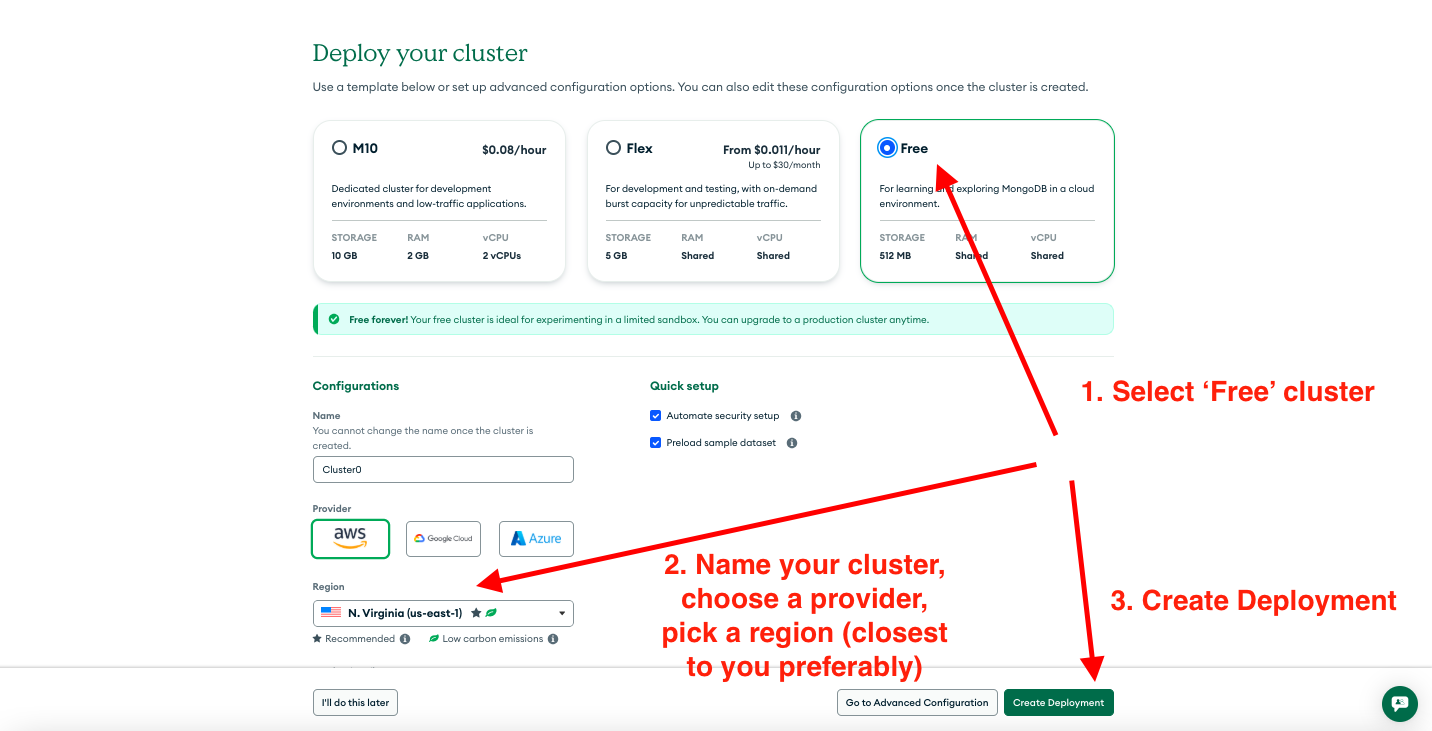
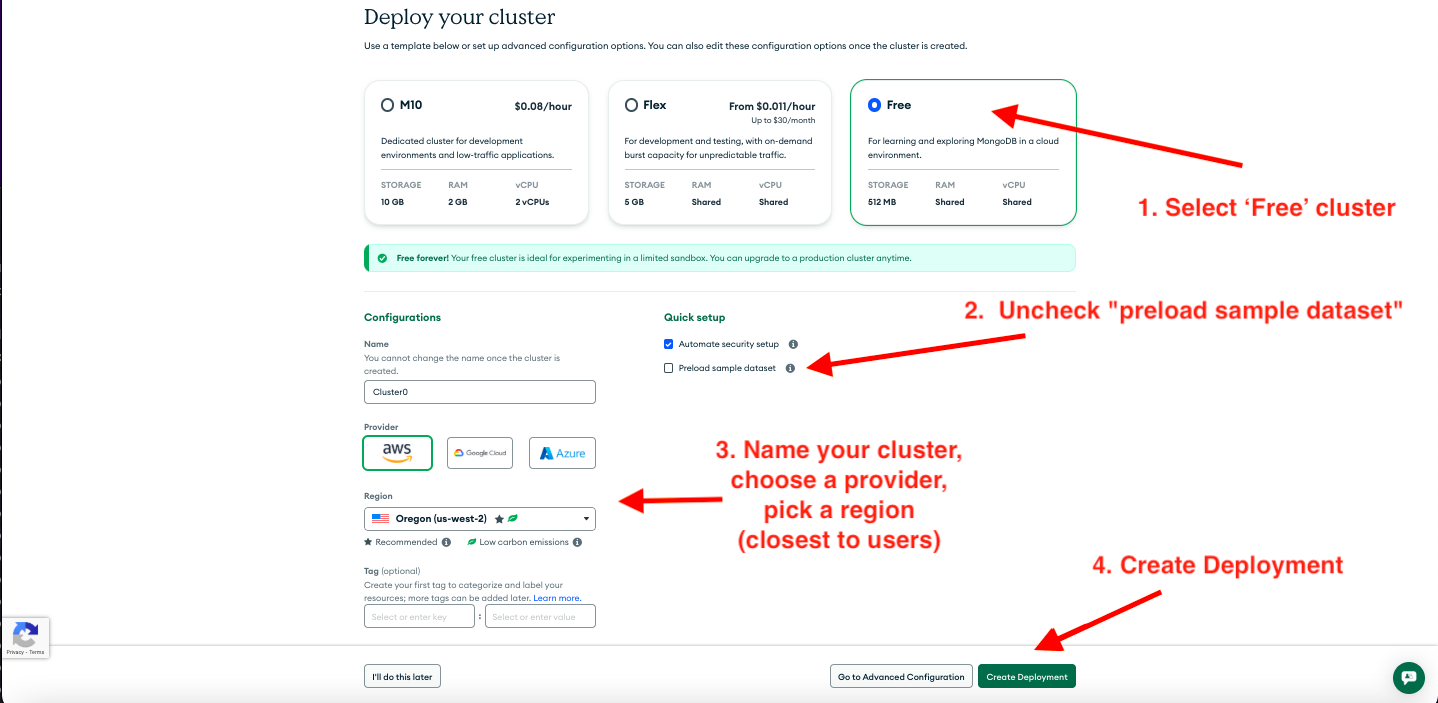
update mongodb section in setup guide

diff --git a/docs/SETUP-GUIDE.md b/docs/SETUP-GUIDE.md
@@ -18,8 +18,8 @@ Complete step-by-step guide to deploy your own DevLeads instance.
 8. [Installation & Development](#installation--development)
 9. [Customization Guide](#customization-guide)
 10. [Create Your GitHub Repository](#create-your-github-repository)
-11. [Web Forms Integration (Optional)](#web-forms-integration-optional-but-highly-recommended)
-12. [Production Deployment](#production-deployment)
+11. [Production Deployment](#production-deployment)
+12. [Web Forms Integration (Optional)](#web-forms-integration-optional-but-highly-recommended)
 13. [Configuration Checklist](#configuration-checklist)
 14. [Troubleshooting](#troubleshooting)
 
@@ -44,7 +44,7 @@ Complete step-by-step guide to deploy your own DevLeads instance.
 
 Before you begin, ensure you have:
 
-- **Node.js** (v16 or higher) - [Download here](https://nodejs.org/)
+- **Node.js** - [Download here](https://nodejs.org/)
 - **npm** or **yarn** package manager
 - **Git** for version control
 - **Text editor** (VS Code recommended)
@@ -75,7 +75,7 @@ Before you begin, ensure you have:
 
 ![MFA Setup](../dashboard/assets/devleads_setup_images/mongodb/MongoDB_Atlas_mfa_setup.png)
 
-4. **Complete the welcome questionnaire**:
+4. **Complete the welcome questionnaire or skip**:
    - **Primary goal**: Select "Build a project I have in mind"
    - **MongoDB experience**: Select your experience level
    - **Programming language**: Choose "JavaScript / Node.js"
@@ -89,6 +89,7 @@ Before you begin, ensure you have:
 
 6. **Deploy your cluster** - Choose the **Free** tier:
    - Select **"Free"** cluster option
+   - **Sample data set**: uncheck "preload sample dataset"
    - **Provider**: Choose your preferred cloud provider
    - **Region**: Choose the region closest to your users
    - **Cluster Name**: Use the default name or choose your own
@@ -100,10 +101,10 @@ Before you begin, ensure you have:
 
 ![Security quickstart](../dashboard/assets/devleads_setup_images/mongodb/MongoDB_Atlas_security_quickstart.png)
 
-   - **Username**: Choose a username
-   - **Password**: Use the auto-generated password or create your own
-   - **⚠ Important**: Copy and save this password - you'll need it for your connection string
-   - Click **"Create Database User"**
+- **Username**: Choose a username
+- **Password**: Use the auto-generated password or create your own
+- **⚠ Important**: Copy and save this password - you'll need it for your connection string
+- Click **"Create Database User"**
 
 8. **Your cluster will be created** (this takes 1-3 minutes)
 
@@ -119,7 +120,7 @@ Before you begin, ensure you have:
 
 3. **Copy the connection string**:
    - **Driver**: Node.js
-   - **Version**: 4.1 or later (should be selected by default)
+   - **Version**: 6.7 or later (should be selected by default)
 
 ![Connection String](../dashboard/assets/devleads_setup_images/mongodb/MongoDB_Atlas_connection_string.png)
 
@@ -137,11 +138,10 @@ Before you begin, ensure you have:
 
 ![Add IP address](../dashboard/assets/devleads_setup_images/mongodb/MongoDB_add_an_IP_address.png)
 
-   - For development: Add `0.0.0.0/0` (allows access from anywhere)
-   - For production: Add your server's specific IP addresses
+- For development: Add `0.0.0.0/0` (allows access from anywhere)
+- For production: Add your server's specific IP addresses
 
-   ![Set IP](../dashboard/assets/devleads_setup_images/mongodb/MongoDB_add_IP_access.png)
-3. **Confirm**
+![Set IP](../dashboard/assets/devleads_setup_images/mongodb/MongoDB_add_IP_access.png) 3. **Confirm**
 
 4. **You can now sign out of MongoDB Atlas**
 
@@ -173,20 +173,24 @@ Before you begin, ensure you have:
 
 ### Step 2: Get Web App Configuration
 
-1. **Project Settings** (Get Started By Adding Firebase to Your App) → **Web '</>'** 
+1. **Project Settings** (Get Started By Adding Firebase to Your App) → **Web '</>'**
 
 ![Get started by adding firebase to your app](../dashboard/assets/devleads_setup_images/firebase/firebase_choose_web.png)
 
 2. **Register app**:
+
    - Pick an App nickname: e.g. "DevLeads Web"
-   - Don't check hosting checkbox 
+   - Don't check hosting checkbox
 
    ![Register app](../dashboard/assets/devleads_setup_images/firebase/firebase_register_app.png)
-   
+
 3. **Copy the config object**
-   - Copy the Firebase configuration public facing keys locally 
+
+   - Copy the Firebase configuration public facing keys locally
      (you'll need this later for `dashboard/js/authApi.js`):
+
    ```javascript
+   // Your web app's Firebase configuration
    const firebaseConfig = {
      apiKey: "your-api-key",
      authDomain: "your-project.firebaseapp.com",
@@ -194,7 +198,6 @@ Before you begin, ensure you have:
      storageBucket: "your-project.appspot.com",
      messagingSenderId: "123456789",
      appId: "your-app-id",
-     measurementId: "your-measurement-id",
    };
    ```
 
@@ -241,9 +244,11 @@ Before you begin, ensure you have:
 ![Generate Key Dialog](../dashboard/assets/devleads_setup_images/firebase/firebase_generate_key3_new.png)
 
 3. **Download the JSON file** (keep it secure!)
+
    - These will go in .env later
 
 4. **Extract these values** from the JSON file:
+
    - `project_id`
    - `private_key_id`
    - `private_key`
@@ -256,11 +261,12 @@ Before you begin, ensure you have:
    - `universe_domain`
 
 5. **You can now sign out of the Firebase Console**
+
 ---
 
 ## Email Setup (Optional but highly recommended)
 
-Email notifications are optional but highly recommended for lead management. It is set up to work seamlessly with the [web form](#web-forms-integration-optional-but-highly-recommended) web components provided later on in this document. Both you and the person submitting the form are sent email confirmations.
+Email notifications are optional but highly recommended for lead management. It is set up to work seamlessly with the customizable [web form](#web-forms-integration-optional-but-highly-recommended) web components provided later on in this document. Both you and the person submitting the form are sent email confirmations.
 
 ### Understanding Email Password (EMAIL_PASS)
 
@@ -304,7 +310,7 @@ The `EMAIL_PASS` field is where you put your email account's authentication cred
   3. Generate an app-specific password
   4. Save password for .env
 
-### Email Provider Settings 
+### Email Provider Settings
 
 **Gmail (for .env):**
 
@@ -471,7 +477,6 @@ const firebaseConfig = {
   storageBucket: "your-project.appspot.com",
   messagingSenderId: "123456789",
   appId: "your-app-id",
-  measurementId: "your-measurement-id",
 };
 ```
 
@@ -507,7 +512,7 @@ This adds default form templates without affecting any existing data.
 - `npm run seed:reset` - Adds missing default templates (safe, preserves existing forms)
 - `npm run seed:force` - Replaces all templates with defaults (WARNING: deletes existing forms)
 
-**Note:** You can run these commands anytime in the future from the server directory if you need to add or reset form templates.
+**Note:** You can run these commands anytime in the future from the server directory if you need to add or reset seeded form templates. You can create new forms from inside the application. This is just for pre-seeded forms.
 
 ![Command line form seeding](../dashboard/assets/devleads_features/npm_run_seed.png)
 
@@ -649,6 +654,73 @@ git push -u origin main
 
 ---
 
+## Production Deployment
+
+### Recommended Platforms
+
+#### Render (Recommended)
+
+1. **Connect GitHub repository** to Render
+2. **CRITICAL: Choose Docker Environment**
+   - When creating the web service, select **"Docker"** as the environment
+   - ⚠ **Do NOT choose Node.js** - Business Finder requires Chrome (only available in Docker)
+3. **Set environment variables** in Render dashboard (Environment tab)
+
+   - **Create production environment variables**:
+
+   ```env
+   NODE_ENV=production
+   DOMAIN=your-deployed-domain.com
+   # Copy all other variables from your local .env file
+   # Update MongoDB URI for production if different
+   ```
+
+   - **⚠ REQUIRED**: Add `DOMAIN` environment variable with your deployment domain name
+     - Leave out any http://, https://, http://www., or https://www.
+     - Example: `DOMAIN=devleads-demo.onrender.com` (for .onrender.com deployments)
+     - Example: `DOMAIN=yourdomain.com` (for custom domains)
+   - Copy all other environment variables from your local `.env` file
+
+   - **⚠ IMPORTANT**: For security, the API documentation endpoint (`/api`) is only accessible in development mode. Setting `NODE_ENV=production` in your environmental variables for your deployed version will automatically disable API documentation access in your production deployment.
+
+4. **Configure auto-deploy** on commits
+5. **Deploy**:
+   - Click "Create Web Service"
+   - Render builds your Docker image automatically
+   - First deployment takes 5-10 minutes
+   - Subsequent deployments are faster due to layer caching
+
+**Important Render Considerations:**
+
+**RECOMMENDED: Upgrade to a paid plan for persistent storage and no sleep mode.**
+
+**Free Tier Limitations:**
+
+- Email notifications require outbound SMTP which is only available with on paid Render plans
+- Apps sleep after 15 minutes of inactivity (causes ~50 second cold start)
+- 750 hours/month of runtime total for ALL projects, not EACH
+- No persistent disk storage on free tier
+
+#### Other Options
+
+- **Fly.io**: Simple and affordable VM deployment with GitHub integration
+- **Heroku**: Use Heroku CLI or GitHub integration
+- **DigitalOcean**: App Platform or Droplets
+
+---
+
+### Domain Configuration
+
+---
+
+#### After deployment
+
+1. **Update CORS settings** for production domains
+2. **Configure Firebase authorized domains**
+3. **Configure MongoDB Atlas production IPs**
+
+---
+
 ## Web Forms Integration (Optional but highly recommended)
 
 After your DevLeads application is deployed, you can add web forms to your website to automatically capture leads. The styles are customizable, light and dark mode support, and quick and easy to embed in any website.
@@ -701,80 +773,6 @@ _See the README for customization options and styling guidance_
 - Ensure CORS is configured in your DevLeads application for your website domain
 - Forms will automatically create new leads in your DevLeads dashboard
 - Email notifications will be sent (if configured) for new form submissions
-
----
-
-## Production Deployment
-
-### Recommended Platforms
-
-#### Render (Recommended)
-
-1. **Connect GitHub repository** to Render
-2. **CRITICAL: Choose Docker Environment**
-   - When creating the web service, select **"Docker"** as the environment
-   - ⚠ **Do NOT choose Node.js** - Business Finder requires Chrome (only available in Docker)
-3. **Set environment variables** in Render dashboard (Environment tab)
-   - **Create production environment variables**:
-
-   ```env
-   NODE_ENV=production
-   DOMAIN=your-deployed-domain.com
-   # Copy all other variables from your local .env file
-   # Update MongoDB URI for production if different
-   ```
-
-   - **⚠ REQUIRED**: Add `DOMAIN` environment variable with your deployment domain name
-     - Leave out any http://, https://, http://www., or https://www.
-     - Example: `DOMAIN=devleads-demo.onrender.com` (for .onrender.com deployments)  
-     - Example: `DOMAIN=yourdomain.com` (for custom domains)
-   - Copy all other environment variables from your local `.env` file
-
-   -  **⚠ IMPORTANT**: For security, the API documentation endpoint (`/api`) is only accessible in development mode. Setting `NODE_ENV=production` in your environmental variables for your deployed version will automatically disable API documentation access in your production deployment.
-
-4. **Configure auto-deploy** on commits
-5. **Deploy**:
-   - Click "Create Web Service"
-   - Render builds your Docker image automatically
-   - First deployment takes 5-10 minutes
-   - Subsequent deployments are faster due to layer caching
-
-**Important Render Considerations:**
-
-**RECOMMENDED: Upgrade to a paid plan for persistent storage and no sleep mode.**
-
-**Free Tier Limitations:**
-
-- Apps sleep after 15 minutes of inactivity (causes ~50 second cold start)
-- 750 hours/month of runtime total for ALL projects, not EACH
-- No persistent disk storage on free tier
-
-**Free Tier Pro-Tip:** If you are absolutely unable to afford a paid account, as a last resort you can use [cron-job.org](https://cron-job.org) to send an HTTP request to your app every 10 minutes to prevent it from spinning down due to inactivity (use at your own risk)
-
-#### Other Options
-
-- **Railway**: Simple deployment with GitHub integration
-- **Heroku**: Use Heroku CLI or GitHub integration
-- **DigitalOcean**: App Platform or Droplets
-- **Vercel**: For frontend, separate backend deployment needed
-- **Netlify**: For frontend, separate backend deployment needed
-
-<small>- Again, I recommend Render for monolithic deployments such as this</small>
-
-### Domain Configuration
-
-#### After deployment
-
-1. **Update server/server.js**:
-
-   ```javascript
-   if (host === "your-domain.com") {
-     return res.redirect(301, "https://www.your-domain.com" + req.originalUrl);
-   }
-   ```
-
-2. **Update CORS settings** for production domains
-3. **Configure Firebase authorized domains**
 
 ---
 
@@ -851,6 +849,12 @@ Use this checklist to ensure your DevLeads application is properly configured be
 - [ ] Firebase authorized domains updated
 - [ ] Database connection tested in production environment
 
+### Security Verification
+
+- [ ] `.env` file is in `.gitignore`
+- [ ] No sensitive data committed to version control
+- [ ] Production uses HTTPS
+
 ### Web Forms Integration Checklist
 
 - [ ] DevLeads application deployed and accessible
@@ -860,12 +864,6 @@ Use this checklist to ensure your DevLeads application is properly configured be
 - [ ] Web component custom element added to HTML of your website with correct endpoint URL
 - [ ] Test form submission creates leads in DevLeads
 - [ ] Email notifications working for form submissions
-
-### Security Verification
-
-- [ ] `.env` file is in `.gitignore`
-- [ ] No sensitive data committed to version control
-- [ ] Production uses HTTPS
 
 ### Post-Deployment
 
@@ -954,3 +952,5 @@ NODE_ENV=development
 ---
 
 Congratulations! Your DevLeads application should now be ready for use.
+
+Check out the [Features Guide](./FEATURES.md) to learn more about DevLeads.
